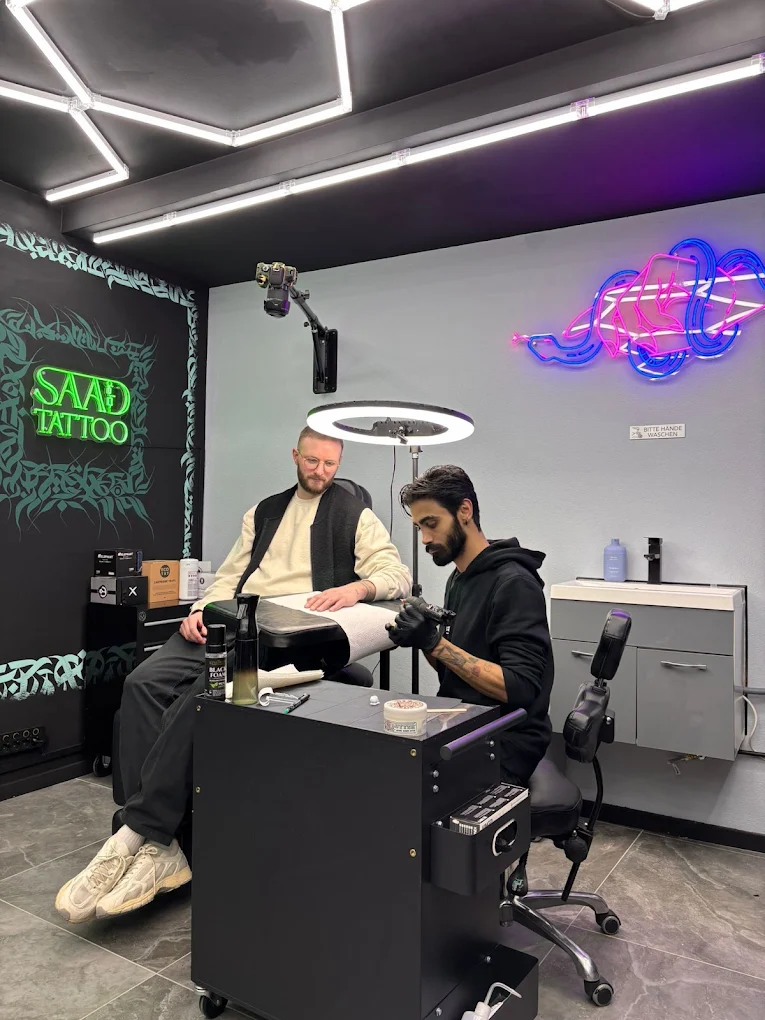
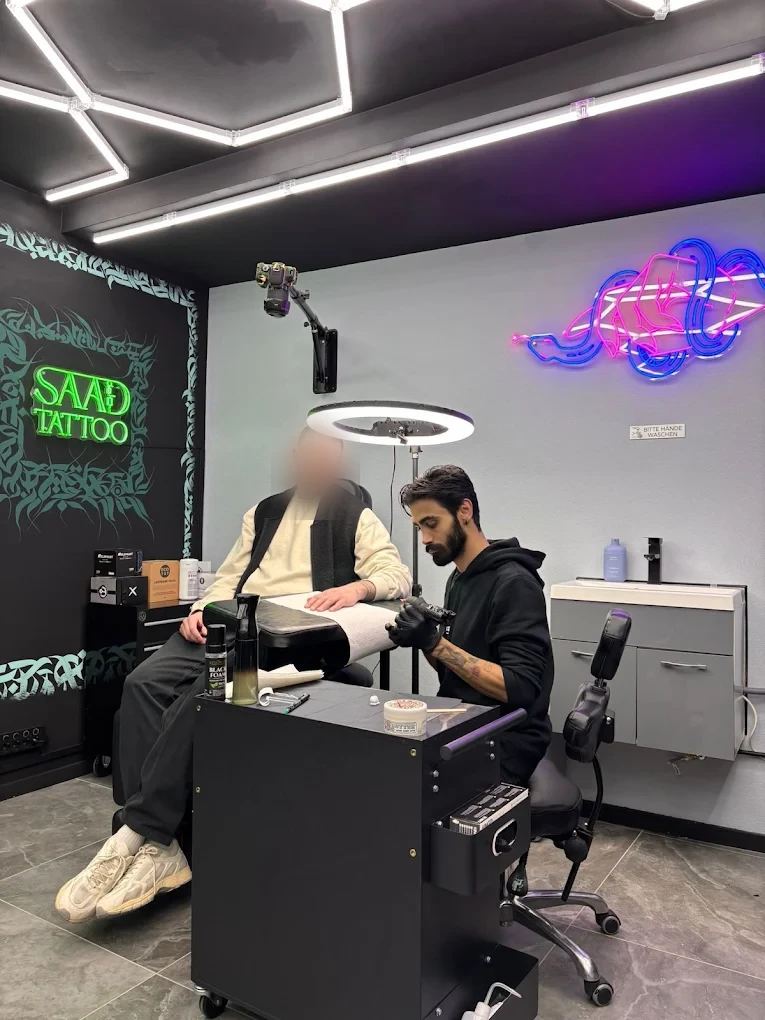
privacy: blur client face in studio photo (GDPR)

Changed region(s): [[0.3608, 0.3951, 0.481, 0.5167]]

diff --git a/index.html b/index.html
@@ -81,7 +81,7 @@
 <!-- 01 STUDIO -->
 <section class="section" id="studio">
   <div class="wrap split">
-    <div class="ph zoom"><img class="mono" src="assets/img/3.webp" alt="Studio SAAD Tattoo Wiesbaden mit Neon-Logo"></div>
+    <div class="ph zoom"><img class="mono" src="assets/img/3.webp?v=2" alt="Studio SAAD Tattoo Wiesbaden mit Neon-Logo"></div>
     <div>
       <p class="eyebrow"><span class="num">01</span><span data-i18n="studio_eye">Unser Studio</span></p>
       <h2 data-i18n="studio_h">Zentral in Wiesbaden. Klassisch. Modern. Steril.</h2>
@@ -133,7 +133,7 @@
     <div class="grid-4">
       <a class="card edu-card" href="ausbildung-komplett-ausbildung.html">
         <span class="ribbon" data-i18n="edu_ribbon_k">Kurs</span>
-        <div class="zoom"><img class="mono" src="assets/img/3.webp" alt="Tattoo Ausbildung im SAAD Studio Wiesbaden"></div>
+        <div class="zoom"><img class="mono" src="assets/img/3.webp?v=2" alt="Tattoo Ausbildung im SAAD Studio Wiesbaden"></div>
         <div class="body"><h3 data-i18n="e1">Komplett-Ausbildung</h3><p data-i18n="e1d">12 Wochen · Praxis + Theorie · Equipment inklusive · Zertifikat</p>
           <div class="foot"><span class="price" data-i18n="e1m">Auf Anfrage</span><span class="arrow">→</span></div></div>
       </a>

diff --git a/galerie.html b/galerie.html
@@ -77,7 +77,7 @@
       <div class="g-item" data-cat="fin"><img class="mono" src="assets/img/12.webp" alt="Owl Skull Wade Tattoo – SAAD Tattoo Wiesbaden"><div class="cap" data-i18n="cap6">Ornamental · Wade</div></div>
       <div class="g-item" data-cat="cov"><img class="mono" src="assets/img/8.webp" alt="Rose Cover Up Tattoo Schulter – SAAD Tattoo Wiesbaden"><div class="cap" data-i18n="cap7">Cover-Up · Rose</div></div>
       <div class="g-item" data-cat="fin"><img class="mono" src="assets/img/11.webp" alt="Fineline Zeichen hinter dem Ohr – SAAD Tattoo Wiesbaden"><div class="cap" data-i18n="cap8">Fineline · Hals</div></div>
-      <div class="g-item" data-cat="stu"><img class="mono" src="assets/img/3.webp" alt="SAAD Tattoo Studio Wiesbaden Impression"><div class="cap" data-i18n="cap9">Studio · Wiesbaden</div></div>
+      <div class="g-item" data-cat="stu"><img class="mono" src="assets/img/3.webp?v=2" alt="SAAD Tattoo Studio Wiesbaden Impression"><div class="cap" data-i18n="cap9">Studio · Wiesbaden</div></div>
 
     </div>
     <div class="btn-row" style="justify-content:center;margin-top:44px;display:flex;gap:16px;flex-wrap:wrap">

diff --git a/ausbildung.html b/ausbildung.html
@@ -62,7 +62,7 @@
     <div class="grid-4">
       <a class="card" href="ausbildung-komplett-ausbildung.html">
         <span class="ribbon" style="position:absolute;top:12px;inset-inline-start:12px;background:var(--white);color:var(--black);font-size:11px;font-weight:800;letter-spacing:.14em;text-transform:uppercase;padding:6px 14px;border-radius:var(--radius);z-index:2" data-i18n="au1_tag">Kurs</span>
-        <div class="zoom"><img class="mono" src="assets/img/3.webp" alt="Komplett-Ausbildung – SAAD Tattoo Wiesbaden"></div>
+        <div class="zoom"><img class="mono" src="assets/img/3.webp?v=2" alt="Komplett-Ausbildung – SAAD Tattoo Wiesbaden"></div>
         <div class="body"><h3 data-i18n="au1_h1">Komplett-Ausbildung</h3><p style="-webkit-line-clamp:3" data-i18n="au1_p1">Vom ersten Strich bis zum ersten Kunden: Unsere 12-wöchige Komplett-Ausbildung macht dich vom Anfänger zum Stu…</p>
           <div class="foot"><span class="price" data-i18n="au1_dur">12 Wochen</span><span class="arrow">→</span></div></div>
       </a>

diff --git a/ueber-uns.html b/ueber-uns.html
@@ -57,7 +57,7 @@
 
 <section style="padding-top:0">
   <div class="wrap split">
-    <div class="ph zoom"><img class="mono" src="assets/img/3.webp" alt="SAAD Tattoo Studio Wiesbaden mit Neon-Logo"></div>
+    <div class="ph zoom"><img class="mono" src="assets/img/3.webp?v=2" alt="SAAD Tattoo Studio Wiesbaden mit Neon-Logo"></div>
     <div>
       <h2 data-i18n="studio_h">Zentral in Wiesbaden. Klassisch. Modern. Steril.</h2>
       <p class="lead" style="margin-top:16px" data-i18n="a_p2">Tattooing since 2018 – über 300 Kunden haben ihre Geschichte bereits mit mir auf die Haut gebracht. Mein Fokus: Black &amp; Grey Realism und Fineline mit eigenen Sketches statt Vorlagen aus dem Netz.</p>

diff --git a/buchen.html b/buchen.html
@@ -89,7 +89,7 @@
 
       <div class="card is-soon" aria-disabled="true">
         <span class="badge" data-i18n="badge_soon">Coming Soon</span>
-        <div class="zoom"><img class="mono" src="assets/img/3.webp" alt="Piercing Studio Wiesbaden – coming soon bei SAAD Tattoo"></div>
+        <div class="zoom"><img class="mono" src="assets/img/3.webp?v=2" alt="Piercing Studio Wiesbaden – coming soon bei SAAD Tattoo"></div>
         <div class="body"><h3 data-i18n="s6">Piercing</h3><p data-i18n="s6d">Piercing-Studio coming soon – bleib gespannt.</p>
           <div class="foot"><span class="price" data-i18n="s6m">Coming Soon</span></div></div>
       </div>

diff --git a/ausbildung-komplett-ausbildung.html b/ausbildung-komplett-ausbildung.html
@@ -60,7 +60,7 @@
 <section style="padding-top:var(--sp-5)">
   <div class="wrap">
     <div class="split" style="align-items:start">
-      <div class="ph zoom"><img class="mono" src="assets/img/3.webp" alt="Komplett-Ausbildung – SAAD Tattoo Wiesbaden"></div>
+      <div class="ph zoom"><img class="mono" src="assets/img/3.webp?v=2" alt="Komplett-Ausbildung – SAAD Tattoo Wiesbaden"></div>
       <div>
         <p class="eyebrow"><span class="num">i</span><span data-i18n="au_details">Kursdetails</span></p>
         <div class="steps" style="grid-template-columns:1fr;margin-top:0">
